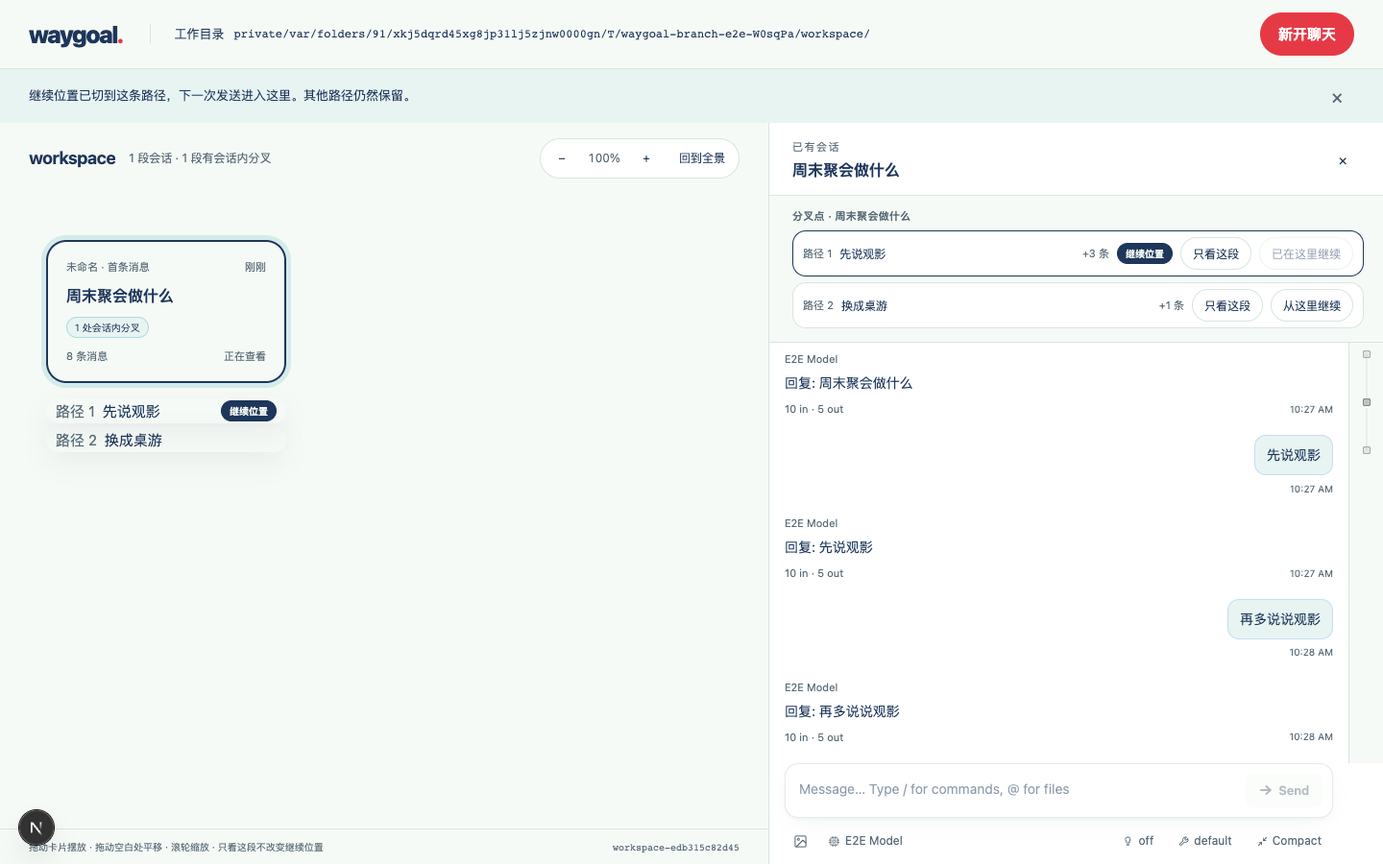
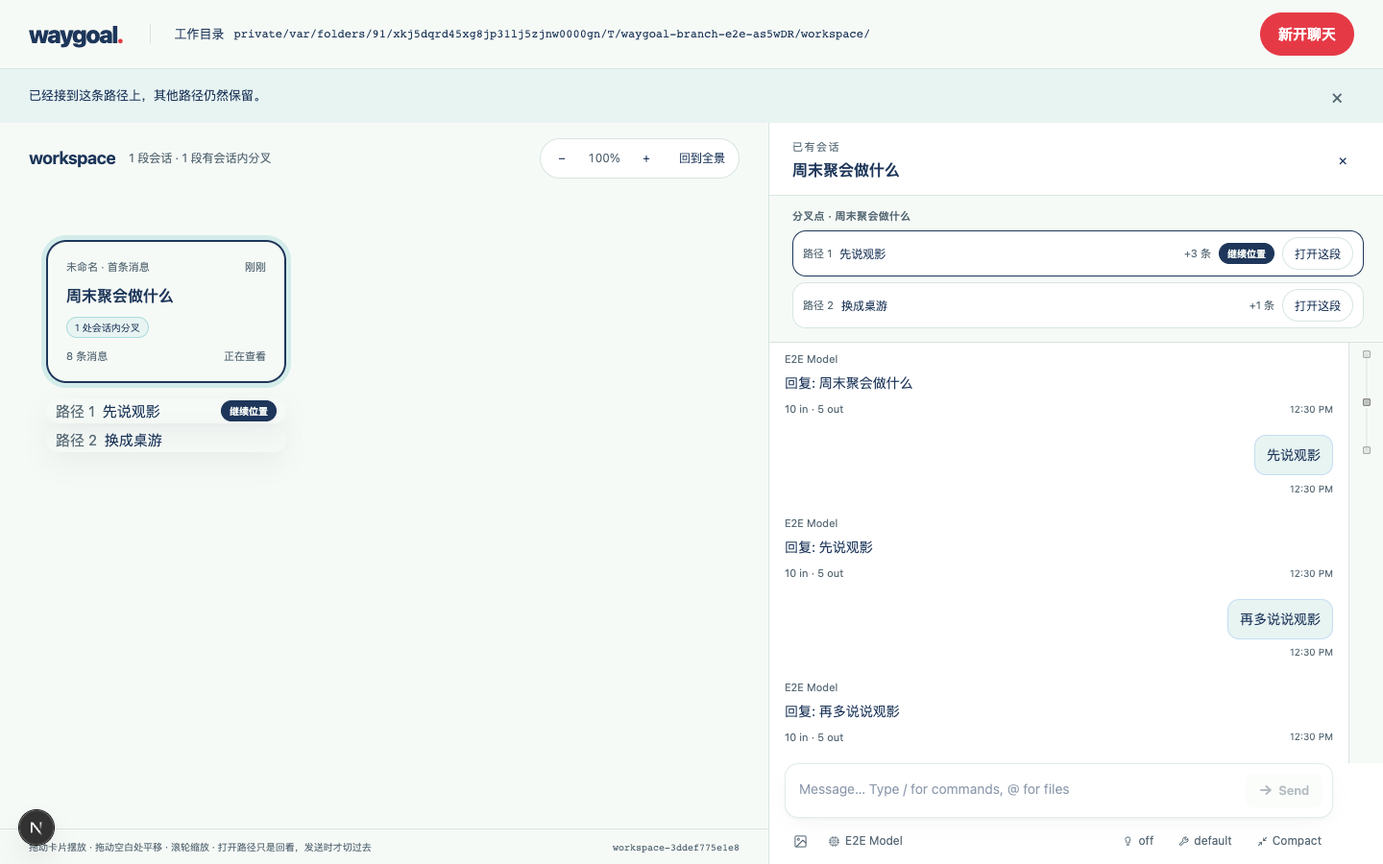
Make sending, not a button, move the session onto a path (#3)
Reading a path and continuing on it were two clicks: 只看这段 to display
it, then 从这里继续 to move the active path. The second step asked the
user to think about Pi's active leaf, which is exactly what they should
never have to think about — the ticket's "explicit continue" is already
satisfied by the send itself.

Opening a path now shows its whole history down to its leaf with a
composer under it. Nothing moves until a message is sent; the send moves
the active leaf onto that path's leaf and then puts the message there,
and if Pi refuses the move nothing is sent, so a message cannot land on
the path the user just left.

diff --git a/prototypes/pi-web/components/WaygoalCanvas.tsx b/prototypes/pi-web/components/WaygoalCanvas.tsx
@@ -98,6 +98,9 @@ export function WaygoalCanvas() {
   const [panelKey, setPanelKey] = useState(0);
   const [trust, setTrust] = useState<{ requiresTrust: boolean; trusted: boolean } | null>(null);
   const [tree, setTree] = useState<WaygoalSessionTreeResponse | null>(null);
+  // Text typed while reading a path: sending it is what moves the session onto
+  // that path, so ChatWindow sends it once it has reopened there.
+  const [pending, setPending] = useState<string | undefined>(undefined);
   const [viewing, setViewing] = useState<Viewing | null>(null);
   const [forkingEntryId, setForkingEntryId] = useState<string | null>(null);
   const restoredFor = useRef<string | null>(null);
@@ -294,8 +297,8 @@ export function WaygoalCanvas() {
   }, [patch]);
 
   /** Open a read-only reading position. Display only — no navigation.
-   *  `leafId` is where 「从这里继续」 would move the active path, null when this
-   *  position is not something to continue from. */
+   *  `leafId` is where a message sent from here would land, null when this
+   *  position is not one to send from. */
   const viewPath = useCallback((sessionId: string, entryId: string | null, label: string, leafId: string | null) => {
     setNotice("");
     if (sessionId !== selectedId) {
@@ -364,7 +367,7 @@ export function WaygoalCanvas() {
   }, [landOnFork]);
 
   /** The one action that moves the agent: continue from an explicit position. */
-  const continueAt = useCallback(async (sessionId: string, entryId: string) => {
+  const continueAt = useCallback(async (sessionId: string, entryId: string): Promise<boolean> => {
     try {
       const res = await fetch(`/api/agent/${encodeURIComponent(sessionId)}`, {
         method: "POST", headers: { "Content-Type": "application/json" },
@@ -373,18 +376,28 @@ export function WaygoalCanvas() {
       const body = await res.json() as { error?: string; data?: { cancelled?: boolean } };
       if (!res.ok) throw new Error(body.error);
       // Pi can refuse the move (an extension cancelled it, a summary aborted).
-      if (body.data?.cancelled) { setNotice("继续位置没有切换，Pi 取消了这次导航。"); return; }
+      if (body.data?.cancelled) { setNotice("没有接到这条路径上，Pi 取消了这次切换。"); return false; }
       setViewing(null);
       setSelectedId(sessionId);
       setPanelKey(k => k + 1);
-      setNotice("继续位置已切到这条路径，下一次发送进入这里。其他路径仍然保留。");
+      setNotice("已经接到这条路径上，其他路径仍然保留。");
       await patch({ lastViewed: sessionId, lastViewedEntry: null });
       await loadTree(sessionId);
       await refresh(true);
+      return true;
     } catch (e) {
-      setError(`没有切换继续位置：${e instanceof Error ? e.message : String(e)}`);
+      setError(`没有接到这条路径上：${e instanceof Error ? e.message : String(e)}`);
+      return false;
     }
   }, [loadTree, patch, refresh]);
+
+  /** Sending from a path being read is the explicit choice: move the session
+   *  onto it, then let ChatWindow send the message there. Nothing is sent if
+   *  the move fails, so a message cannot land on the path the user left. */
+  const continueAndSend = useCallback(async (sessionId: string, leafId: string, text: string) => {
+    if (!(await continueAt(sessionId, leafId))) return;
+    setPending(text);
+  }, [continueAt]);
 
   const zoomBy = useCallback((factor: number, center?: WaygoalPoint) => {
     viewDirty.current = true;
@@ -535,7 +548,7 @@ export function WaygoalCanvas() {
               style={{ left: selectedNode.position.x, top: selectedNode.position.y + chipTop + index * CHIP_HEIGHT, width: NODE_W }}
               onPointerDown={e => e.stopPropagation()}
               onClick={e => { e.stopPropagation(); viewPath(selectedNode.id, choice.entryId, `会话内路径 ${order + 1}`, choice.leafId); }}
-              title="只看这段：显示这条路径的历史，不改变继续位置">
+              title="打开这段：显示这条路径的历史，发送时才接到它后面">
               <span className="waygoal-chip-label">路径 {order + 1}</span>
               <span className="waygoal-chip-preview">{choice.preview}</span>
               {viewing?.entryId === choice.entryId && <span className="waygoal-tag reading">正在查看</span>}
@@ -547,7 +560,7 @@ export function WaygoalCanvas() {
             </div>}
           </div>
         </div>
-        <div className="waygoal-statusline"><span>拖动卡片摆放 · 拖动空白处平移 · 滚轮缩放 · 只看这段不改变继续位置</span><span className="waygoal-id">{snapshot?.workspaceId}</span></div>
+        <div className="waygoal-statusline"><span>拖动卡片摆放 · 拖动空白处平移 · 滚轮缩放 · 打开路径只是回看，发送时才切过去</span><span className="waygoal-id">{snapshot?.workspaceId}</span></div>
       </section>
       {panelOpen && snapshot && <aside className="waygoal-panel" aria-label="讨论面板">
         <div className="waygoal-panel-head">
@@ -573,15 +586,18 @@ export function WaygoalCanvas() {
             viewPath(panelOrigin.sessionId, panelOrigin.entryId, panelOrigin.entryId ? "来源讨论的这条消息" : "来源讨论", null);
           }}
           onView={choice => panelSession && viewPath(panelSession.id, choice.entryId, "这条路径", choice.leafId)}
-          onContinue={leafId => panelSession && void continueAt(panelSession.id, leafId)}
         />}
         <div className="waygoal-panel-body">
           {viewing
-            ? <WaygoalPathView key={`${viewing.sessionId}:${viewing.entryId}`} sessionId={viewing.sessionId} leafId={viewing.entryId} cwd={snapshot.cwd}
+            ? <WaygoalPathView key={`${viewing.sessionId}:${viewing.entryId}`} sessionId={viewing.sessionId}
+                // Read the whole path, down to its deepest entry: what is on
+                // display has to be what a message sent from here follows.
+                leafId={viewing.leafId ?? viewing.entryId} cwd={snapshot.cwd}
                 label={viewing.label} busyReason={busyReason} forkingEntryId={forkingEntryId}
-                onContinue={viewing.leafId ? () => void continueAt(viewing.sessionId, viewing.leafId!) : null}
+                onSend={viewing.leafId ? text => void continueAndSend(viewing.sessionId, viewing.leafId!, text) : null}
                 onFork={entryId => void forkFrom(viewing.sessionId, entryId)} />
             : <ChatWindow key={panelKey} session={panelSession} sessionRunning={selectedNode?.running ?? false}
+                initialPrompt={pending} onInitialPromptConsumed={() => setPending(undefined)}
                 newSessionCwd={panelSession ? null : snapshot.cwd} newSessionDraftKey={panelSession ? null : draftKey}
                 onSessionCreated={onSessionCreated}
                 onSessionForked={(newSessionId, originEntryId) => {

diff --git a/prototypes/pi-web/components/WaygoalPathView.tsx b/prototypes/pi-web/components/WaygoalPathView.tsx
@@ -1,5 +1,5 @@
 "use client";
-import { useEffect, useMemo, useState } from "react";
+import { useEffect, useMemo, useRef, useState } from "react";
 import type { AgentMessage, SessionContext, ToolResultMessage } from "@/lib/types";
 import { MessageView } from "./MessageView";
 
@@ -14,18 +14,33 @@ interface Props {
   /** Continuing or forking is refused while Pi is working on this session. */
   busyReason: string | null;
   forkingEntryId: string | null;
-  /** Null when there is no position to continue from — an unrecorded origin. */
-  onContinue: (() => void) | null;
+  /** Send from here: the path becomes the continue position and the message
+    *  goes into it. Null when this position is not one to continue from — an
+    *  origin whose message was never recorded. */
+  onSend: ((text: string) => void) | null;
   onFork: (entryId: string) => void;
 }
 
 /** Read-only history of one path. It calls the existing history reader with an
  *  explicit leaf and nothing else — no navigation, so looking here cannot move
- *  the agent's active path or add a message. Continuing is a separate,
- *  explicit action the user takes from the banner. */
-export function WaygoalPathView({ sessionId, leafId, cwd, label, busyReason, forkingEntryId, onContinue, onFork }: Props) {
+ *  the agent's active path or add a message. Sending is what commits: the act
+ *  of sending is the explicit choice, so there is no separate confirm step. */
+export function WaygoalPathView({ sessionId, leafId, cwd, label, busyReason, forkingEntryId, onSend, onFork }: Props) {
   const [context, setContext] = useState<SessionContext | null>(null);
   const [error, setError] = useState("");
+  const [draft, setDraft] = useState("");
+  const composer = useRef<HTMLTextAreaElement>(null);
+
+  const send = () => {
+    const text = draft.trim();
+    if (!text || !onSend || busyReason) return;
+    setDraft("");
+    onSend(text);
+  };
+
+  // Opening a path is meant to be one click away from talking, so the composer
+  // takes focus. preventScroll: the history above must stay where it was read.
+  useEffect(() => { composer.current?.focus({ preventScroll: true }); }, [leafId]);
 
   useEffect(() => {
     const controller = new AbortController();
@@ -53,9 +68,7 @@ export function WaygoalPathView({ sessionId, leafId, cwd, label, busyReason, for
     <div className="waygoal-readonly-bar">
       <span className="waygoal-tag reading">正在查看</span>
       <span className="waygoal-readonly-label">{label}</span>
-      <span className="waygoal-readonly-hint">只读回看，这里不会发送消息</span>
-      {onContinue && <button type="button" className="waygoal-button action small" onClick={onContinue} disabled={Boolean(busyReason)}
-        title={busyReason ?? "把这段设为继续位置，下一次发送进入这条路径"}>从这里继续</button>}
+      <span className="waygoal-readonly-hint">{onSend ? "只读回看，发送时才接到这条路径上" : "只读回看，这里不会发送消息"}</span>
     </div>
     {busyReason && <p className="waygoal-readonly-note">{busyReason}</p>}
     <div className="waygoal-readonly-body">
@@ -74,5 +87,13 @@ export function WaygoalPathView({ sessionId, leafId, cwd, label, busyReason, for
         forkLabel="从这里分叉"
       />)}
     </div>
+    {onSend && <div className="waygoal-readonly-composer">
+      <textarea ref={composer} value={draft} onChange={e => setDraft(e.target.value)} rows={2}
+        placeholder={busyReason ?? "在这条路径上继续说…发送时才切过来"}
+        disabled={Boolean(busyReason)} aria-label="在这条路径上继续"
+        onKeyDown={e => { if (e.key === "Enter" && !e.shiftKey && !e.nativeEvent.isComposing) { e.preventDefault(); send(); } }} />
+      <button type="button" className="waygoal-button action small" onClick={send} disabled={Boolean(busyReason) || !draft.trim()}
+        title={busyReason ?? "发送并把继续位置切到这条路径"}>发送</button>
+    </div>}
   </div>;
 }

diff --git a/prototypes/pi-web/components/WaygoalPaths.tsx b/prototypes/pi-web/components/WaygoalPaths.tsx
@@ -12,7 +12,6 @@ interface Props {
   loading: boolean;
   onViewOrigin: () => void;
   onView: (choice: WaygoalBranchChoice) => void;
-  onContinue: (entryId: string) => void;
 }
 
 function OriginRow({ origin, onViewOrigin }: { origin: WaygoalNodeOrigin; onViewOrigin: () => void }) {
@@ -32,10 +31,10 @@ function OriginRow({ origin, onViewOrigin }: { origin: WaygoalNodeOrigin; onView
   </p>;
 }
 
-/** Where this discussion came from and which paths it splits into. Every row
- *  separates the two actions the design asks for: 只看这段 changes only what is
- *  displayed, 从这里继续 changes the path the next message goes into. */
-export function WaygoalPaths({ origin, branchPoints, viewingEntryId, busyReason, loading, onViewOrigin, onView, onContinue }: Props) {
+/** Where this discussion came from and which paths it splits into. Opening a
+ *  path only displays it; sending from it is what makes it the path the next
+ *  message goes into, so there is no separate switch action here. */
+export function WaygoalPaths({ origin, branchPoints, viewingEntryId, busyReason, loading, onViewOrigin, onView }: Props) {
   if (!origin && branchPoints.length === 0) {
     return loading ? null : <div className="waygoal-paths"><p className="waygoal-path-note">这段讨论还没有分叉。把鼠标停在自己发过的消息上，点「从这里分叉」，就会分出一条保留来源、可以独立继续的路径。</p></div>;
   }
@@ -50,12 +49,8 @@ export function WaygoalPaths({ origin, branchPoints, viewingEntryId, busyReason,
           <span className="waygoal-path-steps">{choice.steps > 0 ? `+${choice.steps} 条` : "路径末端"}</span>
           {choice.active && <span className="waygoal-tag continuing">继续位置</span>}
           {viewingEntryId === choice.entryId && <span className="waygoal-tag reading">正在查看</span>}
-          <button type="button" className="waygoal-button outlined small" onClick={() => onView(choice)}>只看这段</button>
-          <button type="button" className="waygoal-button outlined small" onClick={() => onContinue(choice.leafId)}
-            disabled={Boolean(busyReason) || choice.active}
-            title={busyReason ?? (choice.active ? "已经是当前的继续位置" : "下一次发送进入这条路径")}>
-            {choice.active ? "已在这里继续" : "从这里继续"}
-          </button>
+          <button type="button" className="waygoal-button outlined small" onClick={() => onView(choice)}
+            title="打开这条路径的历史；发送时才接到它后面">打开这段</button>
         </li>)}
       </ul>
     </section>)}

diff --git a/prototypes/pi-web/app/beacon/waygoal.css b/prototypes/pi-web/app/beacon/waygoal.css
@@ -157,6 +157,10 @@
 .waygoal-readonly-note { margin: 0; padding: 12px 24px; font-size: 12px; color: var(--wg-muted); }
 .waygoal-readonly-note.error { color: var(--wg-danger); }
 .waygoal-readonly-body { flex: 1; min-height: 0; overflow-y: auto; padding-bottom: 24px; }
+.waygoal-readonly-composer { flex-shrink: 0; display: flex; align-items: flex-end; gap: 10px; padding: 12px 20px 14px 24px; border-top: 1px solid var(--wg-border); background: var(--wg-surface); }
+.waygoal-readonly-composer textarea { flex: 1; resize: none; border: 1px solid var(--wg-border); border-radius: 12px; padding: 9px 12px; font: inherit; font-size: 13px; line-height: 1.5; color: var(--wg-ink); background: var(--wg-canvas); }
+.waygoal-readonly-composer textarea:focus-visible { outline: 2px solid var(--wg-accent); outline-offset: 1px; }
+.waygoal-readonly-composer textarea:disabled { color: var(--wg-muted); }
 
 @keyframes waygoal-panel-in { from { opacity: 0; transform: translateX(12px); } to { opacity: 1; transform: none; } }
 @keyframes waygoal-pulse { 0%, 100% { opacity: 1; } 50% { opacity: .45; } }
@@ -181,7 +185,7 @@
   .waygoal-panel-head { padding: 10px 14px; flex-wrap: wrap; }
   .waygoal-panel-title { flex-basis: 100%; }
   .waygoal-paths { padding: 10px 14px; max-height: 40vh; }
-  .waygoal-readonly-bar, .waygoal-readonly-note { padding-left: 14px; padding-right: 14px; }
+  .waygoal-readonly-bar, .waygoal-readonly-note, .waygoal-readonly-composer { padding-left: 14px; padding-right: 14px; }
 }
 @media (prefers-reduced-motion: reduce) {
   .waygoal-app *, .waygoal-app *::before, .waygoal-app *::after { animation: none !important; transition: none !important; }

diff --git a/docs/research/branch-navigation-results.md b/docs/research/branch-navigation-results.md
@@ -4,35 +4,36 @@
 
 ## 结论
 
-分叉、回看和继续三件事在真实 Pi 数据上分开了：会话内分支读自实际 Pi tree，不伪造会话文件；跨会话 fork 调用 Pi 原生 `fork`，并在分叉发生的当下记下来源会话与来源消息；只读回看走已有的历史读取接口，不调用会切换活动叶子的树导航，也不新增消息；只有明确点「从这里继续」才移动活动路径，下一次发送才进入所选路径。刷新与宿主重启后来源和最近查看位置都还在；记录缺失时明确提示，不按相似标题绑到另一段历史。
+分叉、回看和继续三件事在真实 Pi 数据上分开了：会话内分支读自实际 Pi tree，不伪造会话文件；跨会话 fork 调用 Pi 原生 `fork`，并在分叉发生的当下记下来源会话与来源消息；只读回看走已有的历史读取接口，不调用会切换活动叶子的树导航，也不新增消息；在这条路径上发送消息才移动活动路径，发送本身就是那次明确选择，没有单独的确认步骤。刷新与宿主重启后来源和最近查看位置都还在；记录缺失时明确提示，不按相似标题绑到另一段历史。
 
 ## 实现摘要
 
-- 分支投影：[lib/waygoal-branches.ts](../../prototypes/pi-web/lib/waygoal-branches.ts) 是纯函数，把 Pi tree 折算成分叉点与路径选项（每条路径的首个可见条目、最深条目、预览、步数、是否含活动叶子）。遍历一律迭代，线性会话的链长等于条目数，递归会爆栈。位置标识是「会话 + 条目」：Pi 的 fork 会把条目 id 复制进新文件，单独的条目 id 不是全局位置，见 [pi-tree-and-waygoal.md](pi-tree-and-waygoal.md)。展示用的条目和「继续」用的叶子分开：Pi 的 `navigateTree` 对用户消息会把叶子移到它的父条目、把正文放回输入框（这正是「从此处编辑」），所以继续一定用路径的叶子，不能用正在显示的那条。
+- 分支投影：[lib/waygoal-branches.ts](../../prototypes/pi-web/lib/waygoal-branches.ts) 是纯函数，把 Pi tree 折算成分叉点与路径选项（每条路径的首个可见条目、最深条目、预览、步数、是否含活动叶子）。遍历一律迭代，线性会话的链长等于条目数，递归会爆栈。位置标识是「会话 + 条目」：Pi 的 fork 会把条目 id 复制进新文件，单独的条目 id 不是全局位置，见 [pi-tree-and-waygoal.md](pi-tree-and-waygoal.md)。展示用的条目和发送时用的叶子分开：Pi 的 `navigateTree` 对用户消息会把叶子移到它的父条目、把正文放回输入框（这正是「从此处编辑」），所以发送一定接在路径的叶子后面，不能用正在显示的那条。
 - 读取适配：[lib/waygoal-tree.ts](../../prototypes/pi-web/lib/waygoal-tree.ts) 优先用进程内活着的 `AgentSession` 的 `SessionManager`（Pi 的活动叶子只在内存里），否则按文件打开并按 `mtime + size` 缓存。读不出来的会话被略过，而不是当成「没有分支」。
 - 接口：`GET /api/waygoal/session/[id]?entry=` 返回该会话的分叉点、各路径叶子与活动叶子；带 `entry` 时还回答这个位置在这段会话里是否仍然存在。全程只读，不做 `navigate_tree`。画布快照 `GET /api/waygoal` 增加每个节点的分叉点数量、活动叶子与来源。
 - 来源记录：客户端在真实 fork 成功后立刻 `PATCH /api/waygoal { origin }` 写下来源会话与来源条目。记录不完整或自指的来源直接丢弃；没有记录时退回 Pi header 的 `parentSession`，只知道来源会话、不知道来源消息，界面照实说明。
-- 界面：面板顶部把「正在查看」和「继续位置」分成两个标记，每条路径有「只看这段」和「从这里继续」两个独立按钮；画布节点上有「分叉自「…」」和「N 处会话内分叉」标记，选中节点下方列出会话内路径，跨会话来源用虚线连到来源节点。运行中沿用 Pi 的限制，分叉与继续按钮置灰，不静默打断任务。
+- 界面：面板顶部把「正在查看」和「继续位置」分成两个标记，每条路径只有「打开这段」一个按钮；打开后是这条路径的完整历史加一个输入框，在这里发送就同时移动继续位置并把消息落到这条路径上。画布节点上有「分叉自「…」」和「N 处会话内分叉」标记，选中节点下方列出会话内路径，跨会话来源用虚线连到来源节点。运行中沿用 Pi 的限制，分叉按钮与回看输入框置灰，不静默打断任务。
 - 只读回看复用 pi-web 已有的 `GET /api/sessions/[id]/context?leafId=`，用 `MessageView` 渲染，不接 ChatWindow 的 `handleLeafChange`（那条路会真的导航）。
 
 ## 验证
 
 单元测试：[lib/waygoal-branches.test.mjs](../../prototypes/pi-web/lib/waygoal-branches.test.mjs) 8 项（无分支、单分叉点的叶子与预览、活动叶子落在被折叠的链里、多根分叉点、嵌套分叉点由外到内、活动叶子未知时不标记、两万层线性链不爆栈、祖先路径）；[lib/waygoal-store.test.mjs](../../prototypes/pi-web/lib/waygoal-store.test.mjs) 追加 6 项（记录的来源、Waygoal 之外做的 fork 只给出来源会话、来源不在本工作区时照实说明且不按标题匹配、不完整或自指的来源被拒绝、最近查看位置随会话消失而清除、分叉数与活动叶子来自真实会话树）。
 
-浏览器验证（`npm run test:waygoal-branches`，[e2e/waygoal-branches.mjs](../../prototypes/pi-web/e2e/waygoal-branches.mjs)）：隔离的 `PI_CODING_AGENT_DIR`、可控输出的假模型、独立 Next 宿主。24 项检查全部通过：
+浏览器验证（`npm run test:waygoal-branches`，[e2e/waygoal-branches.mjs](../../prototypes/pi-web/e2e/waygoal-branches.mjs)）：隔离的 `PI_CODING_AGENT_DIR`、可控输出的假模型、独立 Next 宿主。26 项检查全部通过：
 
 - 一段普通会话没有分支；用 Pi 自己的「Edit from here」分出第二个方向后，真实 Pi tree 里是一个分叉点、两条路径，而不是两个会话文件；共享的那条消息就是分叉点。
 - 画布把这段会话标为有会话内分叉并列出两条路径，标出当前从哪条继续。
-- 点「只看这段」读兄弟路径：假模型没有收到请求，会话文件没有增加条目，活动叶子没有移动，面板同时显示「正在查看」和「继续位置」且指向不同路径。
+- 点「打开这段」读兄弟路径：假模型没有收到请求，会话文件没有增加条目，活动叶子没有移动，面板同时显示「正在查看」和「继续位置」且指向不同路径。
 - 刷新后回到同一个查看位置，仍然没有发送。
-- 点「从这里继续」：活动路径移动，仍然没有新增消息；只读回看条上的同一个按钮也要落在这条路径的叶子上，而不是它前面那条消息；随后发送的一条消息在真实 jsonl 里沿 `parentId` 回溯确实落在所选路径上，没有落到另一条；被放弃的那条路径仍然保存；这次请求的上下文里没有兄弟路径的内容。
+- 在打开的这条路径上发送一句：活动路径移到这条路径，另一条不再是继续位置；整个过程只多出一条用户消息——切换本身不产生消息；这条消息在真实 jsonl 里沿 `parentId` 回溯确实落在所选路径上，没有落到另一条；被放弃的那条路径仍然保存；这次请求的上下文里没有兄弟路径的内容。
+- 从另一条路径发送时同样接在它的叶子后面，而不是正在显示的那条消息前面，发出去的正文也还是输入的那句（Pi 对用户条目会把叶子移到父条目并把正文放回输入框，用显示的条目就会两样都错）。
 - 在消息上做真实 fork：新会话是另一个 Pi 会话文件，来源记录同时含来源会话与来源消息，原路径两条分支都没有被改动，画布画出这条来源连线。
 - 从 fork 点「回到来源这条消息」只读打开来源，没有发送。
 - 停止并重启宿主后来源与查看位置都还在，没有发送、没有新增条目。
 - 把最近查看位置改成不存在的条目后刷新，界面明确提示找不到，不绑定到另一段历史。
 - 无页面脚本或控制台错误。
 
-证据：[检查记录](prototype-evidence/branches/checks.json)与截图 `prototype-evidence/branches/01–07`。同时通过全项目 TypeScript 检查和改动文件的 ESLint。全量单元测试 955/959 通过，其余 4 个文件（`lib/rpc-manager-*.test.mjs`、`lib/rpc-session-info.test.mjs`）在本次改动前的提交 `f9faba2` 上以同样的 `Cannot find module '@/lib/skill-lock'` 失败，属于上游既有问题。
+证据：[检查记录](prototype-evidence/branches/checks.json)与截图 `prototype-evidence/branches/01–07`。同时通过全项目 TypeScript 检查和改动文件的 ESLint。全量单元测试 954/958 通过，其余 4 个文件（`lib/rpc-manager-*.test.mjs`、`lib/rpc-session-info.test.mjs`）在本次改动前的提交 `f9faba2` 上以同样的 `Cannot find module '@/lib/skill-lock'` 失败，属于上游既有问题。
 
 ## 实测发现
 
@@ -43,6 +44,8 @@
 - e2e 里逐条消息的操作入口是悬停才出现的，出现时还会改变行的布局；先悬停、等按钮的实际位置、再用真实坐标点击才稳定。
 
 ## 真实模型核验（有界）
+
+这一轮在下面「发送即继续」的简化之前跑，当时回看与继续是两个按钮。被核验的事实——两个方向在同一个会话文件里、回看不发送、发送落在所选路径、重启后位置还在——不受简化影响；发生变化的只是触发继续的那一下由按钮变成发送。
 
 用本机 Pi 登录在 `npm run dev`（根目录脚本，30142）上跑了一轮，工作目录 `playground/`，模型 `openai-codex/gpt-5.6-luna`，共 4 次真实请求。会话 `01a08ba4-ff40-70a2-8ccc-48f96b9994f0`，分叉出的会话 `01a08baa-ee3b-70a2-8ccc-48fac45026ac`。
 
@@ -62,9 +65,15 @@
 - 只读回看一次读末尾 200 条，更长的历史没有分页。
 - 多进程同时写同一 `canvas.json` 仍未处理（同票 #2）。
 - 运行中沿用 Pi 的限制（不能 clone/fork），界面只是把按钮置灰并说明原因，没有做排队。
-- 草稿语义按操作区分：Pi 自己的「从此处编辑」和 fork 仍由 pi-web 处理，正文照旧回到输入框；Waygoal 新增的「从这里继续」是另一件事，只移动继续位置，不动草稿。
+- 草稿语义按操作区分：Pi 自己的「从此处编辑」和 fork 仍由 pi-web 处理，正文照旧回到输入框；回看路径里的输入框是另一份草稿，不发送就不影响任何路径。
 - 分叉与返回的过渡沿用已有的画布平移和面板出现动画（都受 `prefers-reduced-motion` 约束），没有为这一步单做新的过渡；定位主要靠来源连线、节点标记和「正在查看 / 继续位置」两个标签。
 
 ## 代码审查后的修正
 
 按 `/code-review` 结果做了六处修正：只读回看条上的「从这里继续」原来把正在显示的条目当成导航目标，Pi 对用户消息会改跳到它的父条目，因此改为记录并使用这条路径的叶子，并补了一项 e2e 检查；来源只知道会话时用空字符串占位（会发出 `leafId=`、也可能导航到空 id），改成显式的 `null` 并隐藏「从这里继续」；`navigate_tree` 返回的 `cancelled` 原来没看，现在明确提示没有切换；画布小标签和面板里的「路径 N」原来一个按全局编号、一个按分叉点内编号，统一成分叉点内编号；只有测试用到的 `branchRef`/`parseBranchRef` 删除，身份约束由 `WaygoalOriginRecord` 的会话+条目字段承担；接口返回体改为共用一个导出类型，`chatSessionId` 的赋值移出渲染体。`prototypes/pi-web/AGENTS.md` 的 fork 文件清单和 `CONTEXT.md` 的术语（路径、继续位置、查看位置）同时补齐。上面那次真实模型核验在这些修正之前跑，涉及的位置在那段会话里两个 id 恰好相同，结论不受影响；两者的区别由新增的那项浏览器检查覆盖。
+
+## 审查之后的简化：发送即继续
+
+试跑之后按使用者的反馈砍掉了「从这里继续」这个按钮。原来一条路径要点两下（先「只看这段」，再「从这里继续」），而使用者要的就是「点开这段历史，直接接着聊」，跟 pi-web 里切换会话历史的手感一样。票据 AC3 那句「明确继续才切换活动路径」被读窄成了一个显式按钮，其实发送本身就已经是明确的选择。
+
+现在只有一个入口：「打开这段」显示这条路径的完整历史（读到它的叶子，看到的就是消息会接在后面的内容），底部是一个输入框；不发送什么都不动，发送时先把活动路径移到这条路径的叶子，再把消息送进去。移动失败（Pi 返回 `cancelled` 或接口出错）就不发送，消息不会落到刚离开的那条路径上。e2e 相应改成用这个输入框发送来证明切换，检查数从 24 变成 26。

diff --git a/docs/design/canvas-navigation-and-states.md b/docs/design/canvas-navigation-and-states.md
@@ -37,7 +37,7 @@
 直接服务于“保持方向”：用户能发现分叉入口，知道从哪条消息分出，并看清当前讨论路径。以下是首轮实现与体验验证的要求，具体排版尚未确定：
 
 - 在可分叉的位置提供清楚的“从这里分叉”操作，产生后显示来源连接、原路径与新路径，并标明当前继续的位置。
-- 区分“查看这段历史”与“从这里继续”。查看只改变展示；继续明确切换实际对话路径。回到来源不自动合并分支结论，带结论返回另行发起。
+- 区分“查看这段历史”与“在这里继续说”。查看只改变展示；在某条路径上发送消息才切换实际对话路径。回到来源不自动合并分支结论，带结论返回另行发起。
 - 默认呈现真实分叉处及可识别的内容预览，连续消息可以收起；不为每条消息或每轮 grilling 自动创建独立节点或票据。
 - 普通 Pi 会话也具备这些能力。只有关联了真实票据，才显示由来源记录支持的依赖与完成状态。
 
@@ -120,7 +120,7 @@
 
 最小状态样例：下游依赖 A、B；只完成 A 时保持等待，完成 B 后解锁但不完成下游；重复读取不重放解锁，重新出现阻塞时显示等待。地图中有取消票据时，不将其表现为成功结论或据此自动完成主 Map。
 
-现有 Pi UI 已有树导航和分叉入口，但树导航会切换实际活动路径。2026-09-10 起（票 #3）只读查看与明确继续已经分开：查看来源或兄弟路径走只读历史读取，不调用树导航、不新增消息；只有明确「从这里继续」才移动活动路径，下一次发送才进入所选路径。真实分叉在主画布上可感知：节点显示分叉来源与会话内分叉数量，选中节点下方列出会话内路径，跨会话来源用连线指向来源节点。来源同时记会话与消息位置；只有 Pi header 可依据时，照实说明只知道来源会话。试跑记录见 [branch-navigation-results.md](../research/branch-navigation-results.md)。2026-09-10 起 `/beacon` 是不带固定 Wayfinder 根入口的真实会话画布（票 #2：发现、新开、拖动、平移缩放、按工作目录恢复）；旧票据入口移到 `/beacon/tickets`，仍固定调用 Wayfinder，留到票据讨论接入时替换。
+现有 Pi UI 已有树导航和分叉入口，但树导航会切换实际活动路径。2026-09-10 起（票 #3）只读查看与继续已经分开：查看来源或兄弟路径走只读历史读取，不调用树导航、不新增消息；在这条路径上发送消息才移动活动路径，发送本身就是那次明确选择，没有单独的确认按钮。真实分叉在主画布上可感知：节点显示分叉来源与会话内分叉数量，选中节点下方列出会话内路径，跨会话来源用连线指向来源节点。来源同时记会话与消息位置；只有 Pi header 可依据时，照实说明只知道来源会话。试跑记录见 [branch-navigation-results.md](../research/branch-navigation-results.md)。2026-09-10 起 `/beacon` 是不带固定 Wayfinder 根入口的真实会话画布（票 #2：发现、新开、拖动、平移缩放、按工作目录恢复）；旧票据入口移到 `/beacon/tickets`，仍固定调用 Wayfinder，留到票据讨论接入时替换。
 
 2026-09-09 源码核对：Pi WebUI 的[生成标题入口](../../prototypes/pi-web/app/api/sessions/[id]/auto-name/route.ts)调用[临时命名 Agent](../../prototypes/pi-web/lib/session-title.ts)，读取会话内容生成标题后保存为会话名称；[手动改名](../../prototypes/pi-web/app/api/sessions/[id]/route.ts)同样更新 Pi 会话信息。这是可复用的代码能力，本轮未实际调用模型或修改任何会话名。用户主动请求命名是明确的内容处理操作，与展示层自动分析聊天并路由或建关系不同。该能力以会话为单位，不证明同一会话内每条分支已有独立标题；分支标记的具体交互仍需验证。自由分组、手动关联及标题在主画布中的接入尚未实现。
 

diff --git a/prototypes/pi-web/AGENTS.md b/prototypes/pi-web/AGENTS.md
@@ -247,7 +247,7 @@ app/api/waygoal/route.ts         GET ?cwd=&force=1 snapshot | PATCH { cwd, posit
 app/api/waygoal/session/[id]/route.ts  GET ?entry= — one session's real branch points and active leaf; read-only, never navigates (ticket #3)
 app/api/beacon/route.ts          ticket prototype: tracker snapshot and ticket → session binding
 components/WaygoalCanvas.tsx     pan/zoom canvas, draggable session nodes, right panel hosting ChatWindow
-components/WaygoalPaths.tsx      panel header: fork origin, branch points, 只看这段 / 从这里继续 (ticket #3)
+components/WaygoalPaths.tsx      panel header: fork origin, branch points, 打开这段 (ticket #3)
 components/WaygoalPathView.tsx   read-only history of one path; reuses GET /api/sessions/[id]/context (ticket #3)
 components/BeaconCanvas.tsx      ticket prototype canvas
 lib/waygoal-store.ts             canvas records in <agentDir>/waygoal/workspaces/<id>/canvas.json; snapshot builder

diff --git a/CONTEXT.md b/CONTEXT.md
@@ -72,7 +72,7 @@ _Avoid_: 每轮追问、票据依赖、仅为排版拆出的卡片
 _Avoid_: 另一段会话、每轮追问、界面上的排版分栏
 
 **继续位置（Continue position）**：
-下一次发送会进入的那条路径的位置；只有用户明确选择才会改变。
+下一次发送会进入的那条路径的位置；打开一段历史不改变它，用户在某条路径上发送时才移动过去。
 _Avoid_: 当前查看位置、打开某段历史即视为继续
 
 **查看位置（Reading position）**：
